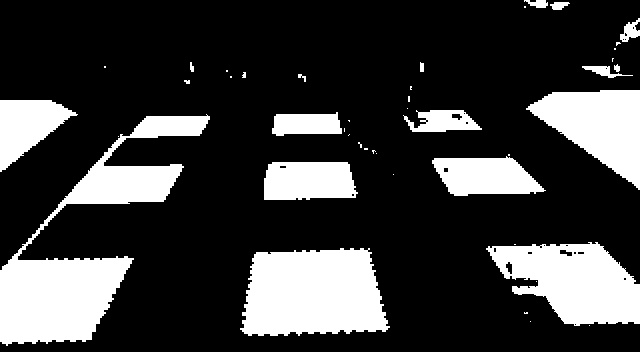
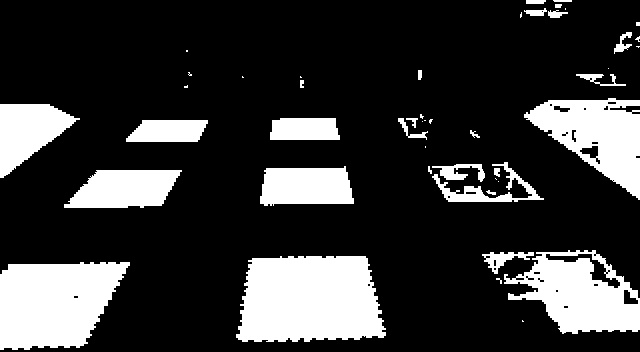
Pisadas en ROI V1.0

diff --git a/main.py b/main.py
@@ -5,24 +5,48 @@ from localizador_pie import localizador
 from detector_pisadas import detector_pisadas
 from roi import gen_roi, pisadas_roi
 
+'''
+----- DETECTOR DE EVENTOS PARA GENERAR MANUALMENTE EL ROI -----
+'''
+
+ROI_B, count = [], 0
+
+def mouse_callback(event, x, y, flags, params):
+    if event == 2:
+        global ROI_B, count
+        count += 1
+        if (count % 4 == 0):
+            ROI_B.append([x, y])
+            f = open('ROI_B.txt', 'a').write(str(ROI_B) + '\n')
+            ROI_B = []
+            f.close()
+        else:
+            ROI_B.append([x, y])
+        print(ROI_B, count)
 
 def main():
 
     archivo = "Prueba_experimental_B.mp4"
-    balizas = "mask.jpg"
-    mask = cv2.imread(balizas)
+    balizas = "mask.jpg" # (2)
+    mask = cv2.imread(balizas) # (2)
     cap = cv2.VideoCapture(archivo)
     mp_drawing = mp.solutions.drawing_utils
     mp_drawing_styles = mp.solutions.drawing_styles
     mp_pose = mp.solutions.pose
 
+    '''
+    ----- PARÁMETROS PARA EL MÓDULO DETECTOR DE PISADAS -----
+    '''
     derecho = [0, 0] # posicion actual del pie derecho
     izquierdo = [0, 0] # posicion actual del pie izquierdo
     tol_x = 8 # toleracia para detectar pisada en eje x
     tol_y = 5 # toleracia para detectar pisada en eje y
 
-    src, contours, points = gen_roi(mask.shape[0], mask.shape[1])
-    cv2.imshow("ROI", src)
+    '''
+    ----- GENERAR LAS REGIONES DE INTERÉS (ACTUALMENTE Prueba_experimental_B.mp4) -----
+    '''
+    src, points_and_contours = gen_roi(mask.shape[0], mask.shape[1]) # se usa el frame obtenido en (2) para no iterar en el While
+    cv2.imshow("ROI", src) # mostrar las regiones de interés obtenidas manualmente
 
     with mp_pose.Pose(static_image_mode=
         False) as pose:
@@ -39,13 +63,23 @@ def main():
             
             baricentro_derecho, baricentro_izquierdo = localizador(resultados, width, height, mp_pose)
             
-            # MÓDULO DETECTOR DE PISADAS
+            '''
+            ----- MÓDULO DETECTOR DE PISADAS -----
+            '''
             imagen, pisada_x, pisada_y = detector_pisadas(imagen, [baricentro_derecho, baricentro_izquierdo], [tol_x, tol_y], [derecho, izquierdo])
 
-            # MÓDULO DETECTOR DE PISADAS EN ZONAS DE INTERÉS
-            imagen = pisadas_roi(imagen, pisada_x, pisada_y, contours, baricentro_derecho, baricentro_izquierdo, points)
+            '''
+            ----- MÓDULO DETECTOR DE PISADAS EN ZONAS DE INTERÉS -----
+            '''
+            imagen = pisadas_roi(imagen, pisada_x, pisada_y, baricentro_derecho, baricentro_izquierdo, points_and_contours)
+            
 
             cv2.imshow("Imagen", imagen)
+            '''
+            ----- (1) GENERAR ROI MANUALMENTE (se usó para generar ROI_B.txt) -----
+            '''
+            # cv2.setMouseCallback("Imagen", mouse_callback)
+
             derecho = baricentro_derecho
             izquierdo = baricentro_izquierdo
             # print("---------------------------")
@@ -55,7 +89,9 @@ def main():
 
             img_array.append(imagen)
 
-            # Obtener un frame de interés para la detección de balizas
+            '''
+            ----- (2) OBTENER UN FRAME DE INTERÉS PARA LA DETECCIÓN DE BALIZAS (ya no se usa, ahora se prueba con 1) -----
+            '''
             hsv = cv2.cvtColor(frame, cv2.COLOR_BGR2HSV)
             mask = cv2.inRange(hsv, (160, 50, 50), (180, 255, 255))
             # cv2.imshow("hsv", hsv)
@@ -68,8 +104,6 @@ def main():
             elif k & 0xFF == 32:
                 print("Exportando frame de interés")
                 cv2.imwrite("mask.jpg", mask)
-
-
 
         make_video(width,height, img_array,archivo )
         cap.release()

diff --git a/roi.py b/roi.py
@@ -1,21 +1,34 @@
 from bibliotecas import *
-
+import ast
 def gen_roi(h, w, mode = 1):
     '''
         mode = 0, ROI para Prueba Experimental A
         mode = 1, ROI para Prueba Experimental B
+        (aún no se implementan las distinciones)
     '''
     src = np.zeros((h, w), dtype = np.uint8)
-    points = np.array([[350, 165], [265, 165], [260, 205], [355, 205]], np.int32).reshape((-1, 1, 2))
-    src = cv2.polylines(src, [points], True, ( 255 ), 2)
-    contours, _ = cv2.findContours(src, cv2.RETR_TREE, cv2.CHAIN_APPROX_SIMPLE)
-    return src, contours, points
+    lines = open('ROI_B.txt', 'r').readlines()
+    ROI = [ast.literal_eval(line[:-1]) for line in lines]
+    points_and_contours = []
+    for roi in ROI:
+        temp = np.zeros((h, w), dtype = np.uint8)
+        p = np.array(roi, np.int32).reshape((-1, 1, 2))
+        temp = cv2.polylines(temp, [p], True, ( 255 ), 2)
+        cont, _ = cv2.findContours(temp, cv2.RETR_TREE, cv2.CHAIN_APPROX_SIMPLE)
+        src = cv2.bitwise_or(src, temp)
 
-def pisadas_roi(imagen, pisada_x, pisada_y, contours, baricentro_derecho, baricentro_izquierdo, points):
+        points_and_contours.append((p, cont[0]))
+    return src, points_and_contours
+
+def pisadas_roi(imagen, pisada_x, pisada_y, baricentro_derecho, baricentro_izquierdo, points_and_contours):
+    '''
+        Si ocurrió una pisada, se busca dónde se pisó y se pinta.
+    '''
     if pisada_x or pisada_y:
-        der =  cv2.pointPolygonTest(contours[0], (baricentro_derecho[0], baricentro_derecho[1]), False)
-        izq =  cv2.pointPolygonTest(contours[0], (baricentro_izquierdo[0], baricentro_izquierdo[1]), False)
-        if (der >= 0) or (izq >= 0):
-                imagen = cv2.fillPoly(imagen, [points], (0, 255, 0))
+        for i in range(len(points_and_contours)):
+            der = cv2.pointPolygonTest(points_and_contours[i][1], (baricentro_derecho[0], baricentro_derecho[1]), False)
+            izq = cv2.pointPolygonTest(points_and_contours[i][1], (baricentro_izquierdo[0], baricentro_izquierdo[1]), False)
+            if (der >= 0) or (izq >= 0):
+                    imagen = cv2.fillPoly(imagen, [points_and_contours[i][0]], (0, 255, 0))
     return imagen
     
